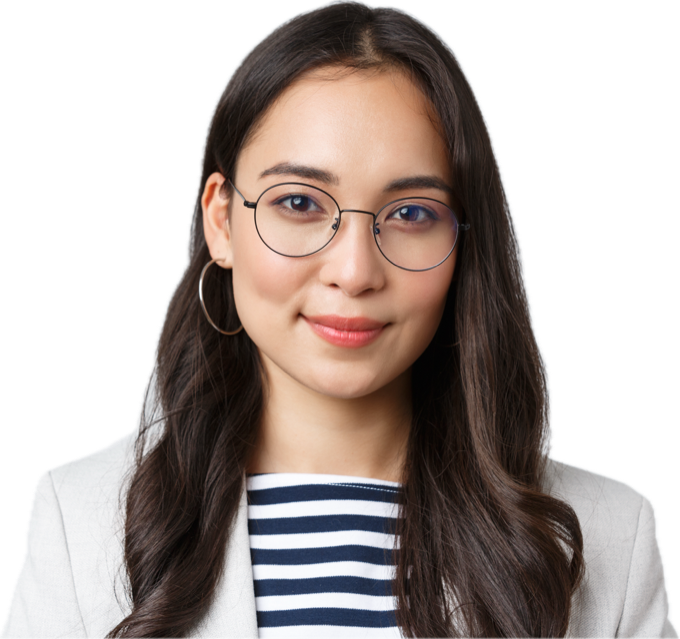
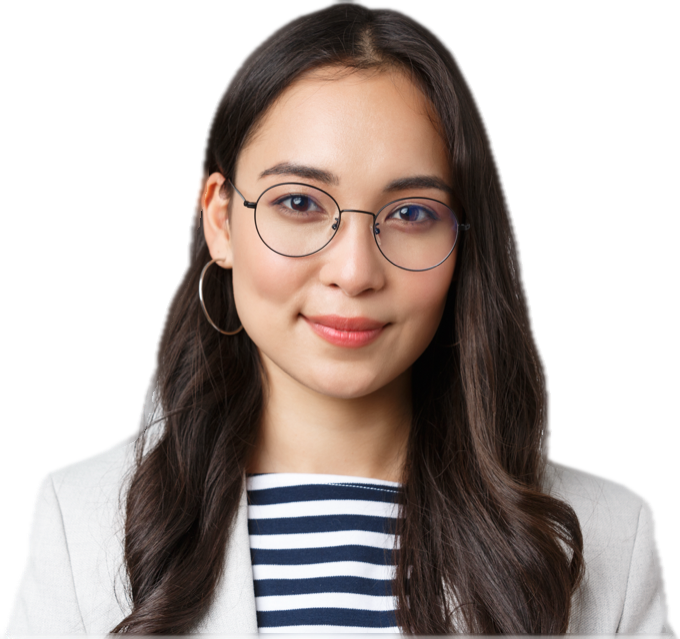
Option C profile photo: white halo removed from the cut-out (edge eroded and recoloured from the hair and jacket), right shoulder fades out instead of a hard crop

diff --git a/src/variants/c/concepts/ProfileHeroCard.tsx b/src/variants/c/concepts/ProfileHeroCard.tsx
@@ -54,7 +54,13 @@ export function ProfileHeroCard({ person, photo = profileCutout, className }: Pr
             clipPath: 'inset(0 0 0 0 round 0 0 0 var(--oc-radius-card))',
           }}
         >
-          <img src={photo} alt={name} className="block size-full object-cover object-bottom" />
+          {/* The photo's right edge cuts through the shoulder: fade it out instead of a hard line */}
+          <img
+            src={photo}
+            alt={name}
+            className="block size-full object-cover object-bottom"
+            style={{ maskImage: 'linear-gradient(to right, #000 84%, transparent 100%)', WebkitMaskImage: 'linear-gradient(to right, #000 84%, transparent 100%)' }}
+          />
         </div>
 
         {/* Details: name, role and up to four contact details */}
